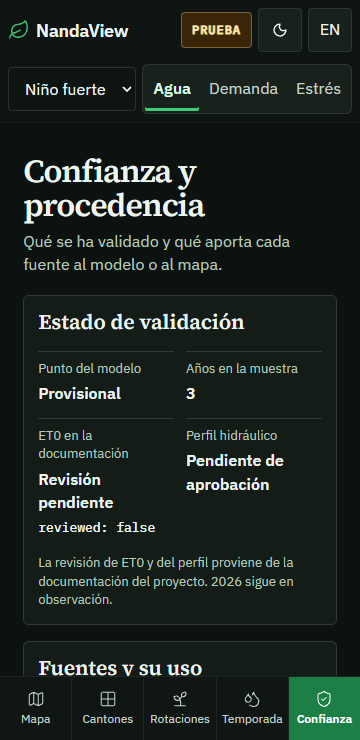
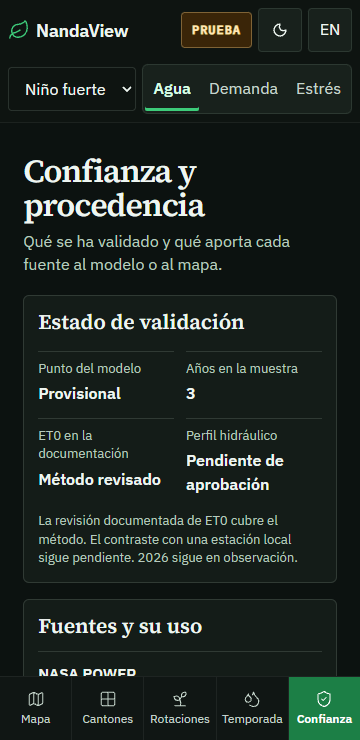
fix: conserva la validación de ET0 tras registrar su revisión

Changed region(s): [[0.0611, 0.6216, 0.825, 0.9324], [0.9167, 0.8392, 0.9472, 0.8703]]

diff --git a/frontend/src/lib/i18n.ts b/frontend/src/lib/i18n.ts
@@ -143,7 +143,7 @@ const dictionary = {
   "readingSheet.hide": { es: "Ocultar", en: "Hide" },
   "rotations.bandFromP10P90Tick": { es: "Raya: valor central (p50). Banda: rango p10–p90.", en: "Tick: middle value (p50). Band: p10–p90 range." },
   "charts.equalRange": { es: "Los extremos del rango coinciden y aparecen sobre la misma raya.", en: "The ends of the range coincide on the same tick." },
-  "trust.et0ReviewPending": { es: "Revisión pendiente", en: "Review pending" },
+  "trust.et0MethodReviewed": { es: "Método revisado", en: "Method reviewed" },
   "scenario.la_nina": { es: "Niña", en: "La Niña" },
   "scenario.like_2026": { es: "Como 2026", en: "Like 2026" },
   "scenario.neutral": { es: "Neutro", en: "Neutral" },
@@ -180,7 +180,7 @@ const dictionary = {
   "trust.dailyRainTemperaturesHumidityWind": { es: "Lluvia, temperaturas, humedad, viento a 2 m y radiación diarios de la comunidad agrícola (AG). Los datos de prueba son sintéticos.", en: "Daily rain, temperatures, humidity, wind at 2 m, and radiation from the agricultural community (AG). Sample figures are synthetic." },
   "trust.defaultSatellitePhotographyOnMap": { es: "Fotografía satelital que se muestra por defecto en el mapa.", en: "The default satellite photography on the map." },
   "trust.et0Documentation": { es: "ET0 en la documentación", en: "ET0 in the documentation" },
-  "trust.et0ProfileReviewStatusComes": { es: "La revisión de ET0 y del perfil proviene de la documentación del proyecto. 2026 sigue en observación.", en: "ET0 and profile review status comes from the project documentation. Monitoring for 2026 is ongoing." },
+  "trust.et0ProfileReviewStatusComes": { es: "La revisión documentada de ET0 cubre el método. El contraste con una estación local sigue pendiente. 2026 sigue en observación.", en: "The documented ET0 review covers the method. A comparison with local station observations is pending. Monitoring for 2026 is ongoing." },
   "trust.fao56SuppliesWaterBalance": { es: "FAO-56 aporta el método del balance. CHIRPS se usa para contrastar la lluvia.", en: "FAO-56 supplies the water balance method. CHIRPS provides a rainfall cross-check." },
   "trust.hydraulicProfile": { es: "Perfil hidráulico", en: "Hydraulic profile" },
   "trust.identifiesClimatePhaseUsedBuild": { es: "Identifica la fase climática que usa el cálculo para armar el escenario.", en: "Identifies the climate phase used to build the scenario." },

diff --git a/frontend/e2e/productor.spec.ts b/frontend/e2e/productor.spec.ts
@@ -34,7 +34,7 @@ test("un productor resuelve las cinco tareas y la consola queda limpia", async (
 
   await page.getByRole("link", { name: "Confianza" }).click();
   await expect(page.getByRole("heading", { name: "Confianza y procedencia" })).toBeVisible();
-  await expect(page.getByText("reviewed: false")).toBeVisible();
+  await expect(page.getByText("Método revisado")).toBeVisible();
   await expect(page.getByRole("heading", { name: "NASA POWER" })).toBeVisible();
 
   await page.getByRole("link", { name: "Mapa" }).click();
@@ -187,7 +187,7 @@ test("la fase 6 conserva las fechas provisionales y la navegación de los canton
   await expect(page.getByRole("columnheader", { name: "B · " + year })).toBeVisible();
 
   await page.getByRole("link", { name: "Confianza", exact: true }).click();
-  await expect(page.getByText("reviewed: false")).toBeVisible();
+  await expect(page.getByText("Método revisado")).toBeVisible();
   await expect(page.getByRole("heading", { name: "NASA POWER" })).toBeVisible();
   const address = page.getByLabel("Dirección de la API");
   await address.fill("api-invalida");
@@ -222,7 +222,7 @@ test("la fase 7 traduce los avisos activos y descarga el mapa al abrirlo", async
 
   try {
     await page.goto("/#/confianza");
-    await expect(page.getByText("reviewed: false")).toBeVisible();
+    await expect(page.getByText("Método revisado")).toBeVisible();
     await expect(page.getByRole("application")).toHaveCount(0);
     expect(mapAssets).toEqual([]);
 

diff --git a/frontend/src/screens/TrustScreen.tsx b/frontend/src/screens/TrustScreen.tsx
@@ -104,7 +104,7 @@ export function TrustScreen() {
               </div>
               <div>
                 <dt>{translate(lang, "trust.et0Documentation")}</dt>
-                <dd>{translate(lang, "trust.et0ReviewPending")} <small><code>reviewed: false</code></small></dd>
+                <dd>{translate(lang, "trust.et0MethodReviewed")}</dd>
               </div>
               <div>
                 <dt>{translate(lang, "trust.hydraulicProfile")}</dt>

diff --git a/backend/tests/test_kernel_handoff.py b/backend/tests/test_kernel_handoff.py
@@ -27,12 +27,15 @@ class KernelHandoffTests(unittest.TestCase):
         path = Path('datasets/processed/et0/et0_10.55_-85.5.json')
         payload = json.loads(path.read_text(encoding='utf-8'))
         model = ReviewedET0.model_validate(payload)
+        self.assertEqual(len(model.values), 16754)
+
+        unreviewed = {**payload, 'reviewed': False, 'reviewed_by': None}
+        model = ReviewedET0.model_validate(unreviewed)
         self.assertFalse(model.reviewed)
         self.assertIsNone(model.reviewed_by)
-        self.assertEqual(len(model.values), 16754)
-        payload['reviewed'] = True
+
         with self.assertRaisesRegex(ValueError, 'named reviewer'):
-            ReviewedET0.model_validate(payload)
+            ReviewedET0.model_validate({**unreviewed, 'reviewed': True})
 
     def test_calendar_audit_finds_no_overlaps_with_current_dates(self):
         # Arroz 05-15 (150 d, cosecha 11-oct) antes del 2.º cultivo del 15-oct: sin solapes.
